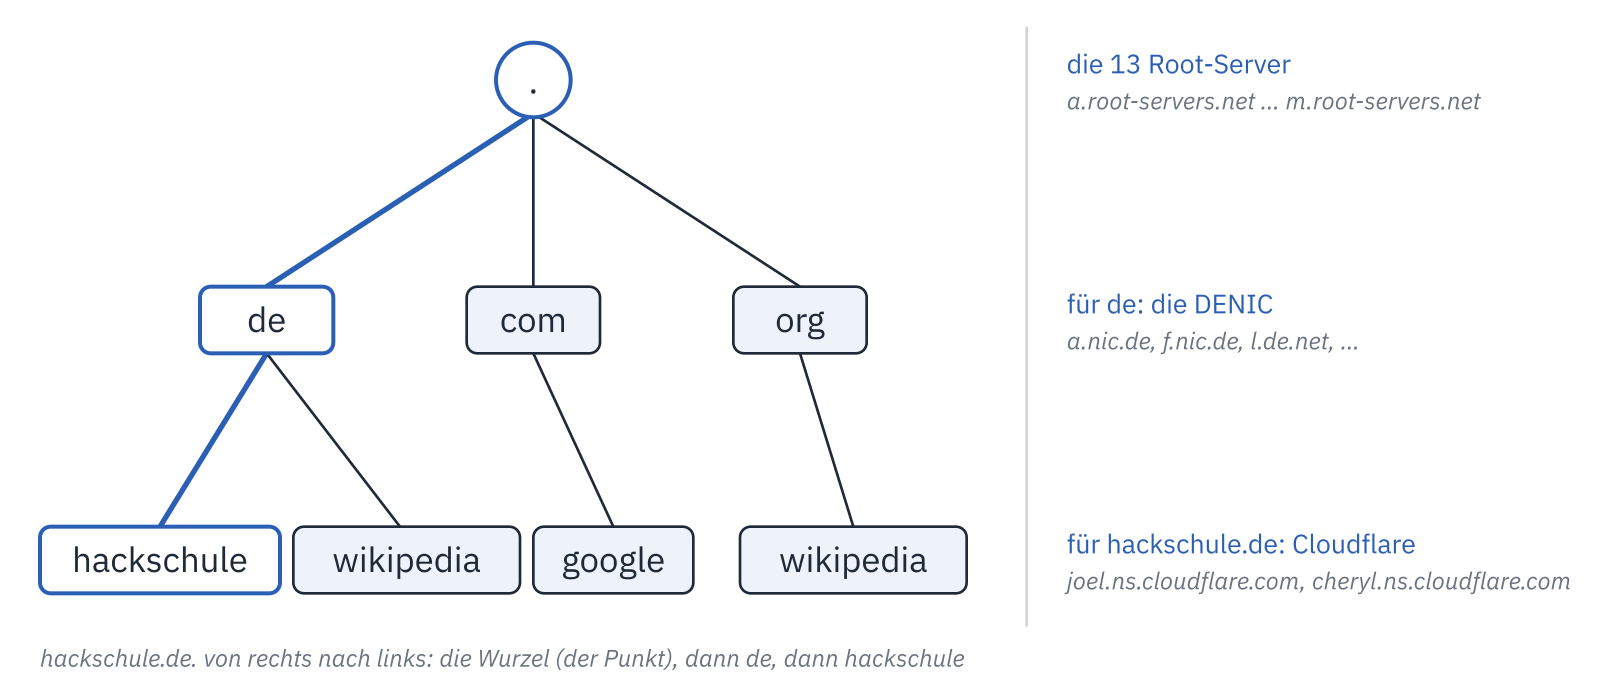
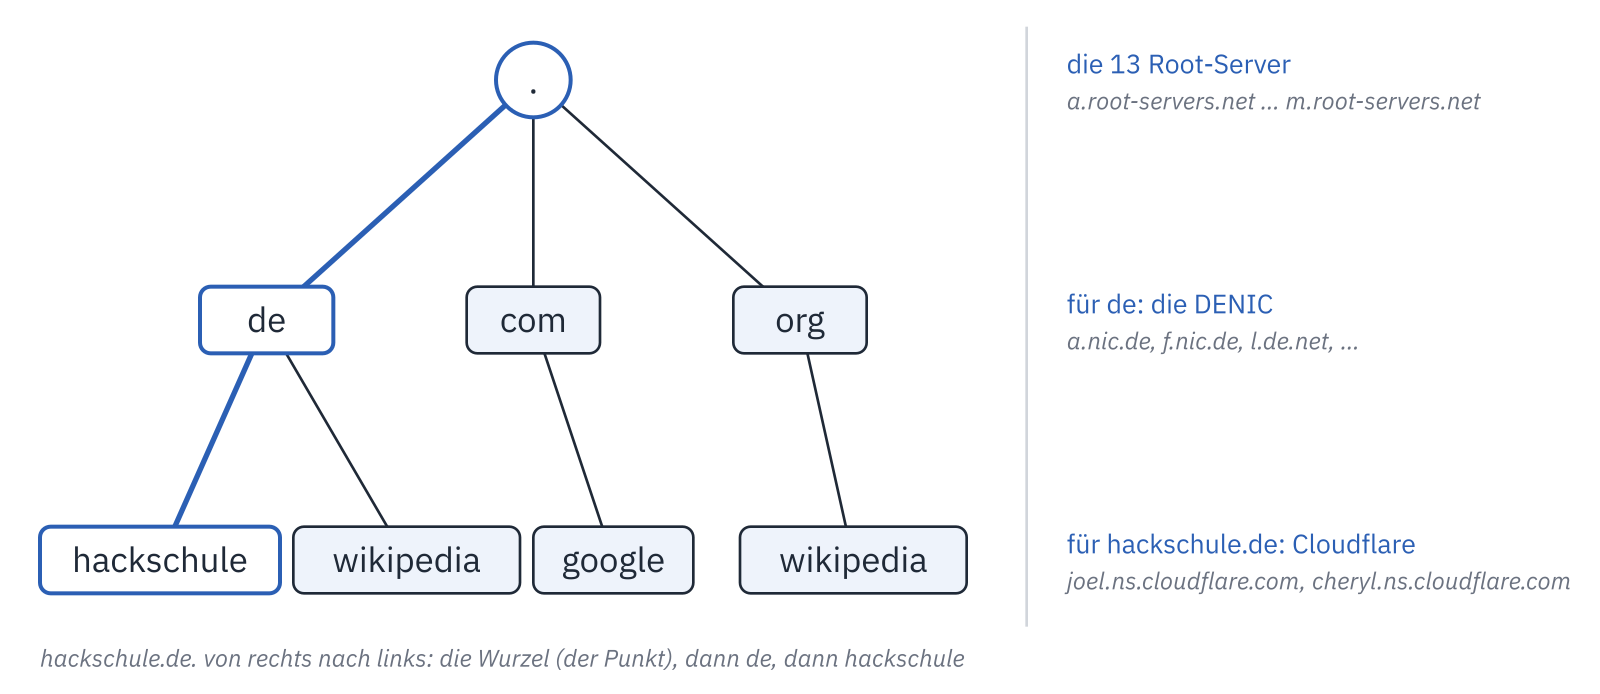
Diagrams: edges aim at node centres (DNS tree), arrowheads follow their curve with the tip on the border (B-tree); a rule for every diagram

diff --git a/docs/checkliste.md b/docs/checkliste.md
@@ -69,6 +69,7 @@ Repository arbeitet, liest sie also ohnehin.
 | Regel | Warum | Geprüft durch |
 | --- | --- | --- |
 | Jedes Bild hat einen `alt`-Text, der sagt, was zu sehen ist | Barrierefreiheit, und beim Lesen ohne Bild | `alt_text_test.rb` |
+| In Diagrammen zielt eine Kante auf die Mitten der Knoten, die sie verbindet; eine Pfeilspitze zeigt in Richtung ihrer Kante, die Spitze auf dem Rand des Knotens. Ein gebogener Pfeil kommt auf der Linie zur Mitte an (sein letzter Kontrollpunkt liegt darauf), und ein Pfeil beginnt an der Stelle im Knoten, zu der er gehört, nicht in einer Ecke | Kanten, die an einer Kante des Kastens enden oder schräg ankommen, sehen unordentlich aus | Lesen (`dns/dns-tree.svg`, `sql-index/b-tree.svg` als Beispiele) |
 | Bilder aus dem Workspace, aus einer Vorschau oder von einer Seite der Website kommen aus Rezepten, nie von Hand | Nach einem Update von VS Code, des Themes oder der Seite entstehen sie neu | Audit (Spalte »von Hand«), `recreate-screenshots.rb --status` |
 | Rezepte, deren Bild für die folgenden nichts ändert (eine Galerie von Beispielen, eine Vorschau nach der anderen), stehen jedes in einem `<!-- tutorial-scope -->` | Dann rendert eine Änderung an einem Bild nur dieses neu, nicht alle danach, Videos eingeschlossen | Lesen (`src/tutorial-screenshots/README.md`, »Scopes«) |
 | Vor einer Scope-Marke steht eine Leerzeile, wenn die Zeile davor ein Bild oder Text ist | Sonst gehört sie für Markdown zum Absatz davor und steht als Text auf der Seite | `scope_markers_test.rb` |

diff --git a/AGENTS.md b/AGENTS.md
@@ -47,6 +47,12 @@ address from `credentials.rb` and the code `123456`.
   before the `<img>`), never by hand. Render with
   `src/scripts/recreate-screenshots.rb PAGE`, check `--status`, and look at
   every new picture before committing it with its `.tutorial-screenshots.json`.
+- Diagrams: an edge aims at the centres of the nodes it joins (drawn from
+  centre to centre under the nodes, or ending on the border on that line), and
+  an arrowhead points along its edge, its tip on the node's border. A curved
+  arrow arrives on the line towards the centre: its last control point lies on
+  that line, so the head follows the curve (`dns/dns-tree.svg`,
+  `sql-index/b-tree.svg`).
 - Check marks are Bootstrap icons (`<i class='bi bi-check-lg'></i>`), never
   Unicode characters; `no_check_marks_test.rb` enforces this.
 - Code blocks name their language. A copy button (`_copy`) only for what is no

diff --git a/CHANGELOG.md b/CHANGELOG.md
@@ -759,6 +759,10 @@ Jeder Eintrag sagt, was sich für Lernende, Lehrkräfte und Betreibende ändert.
 
 ### Behoben
 
+- Diagramme: Im DNS-Baum zielen die Kanten auf die Mitten der Knoten, im
+  B-Baum von »SQL-Index« zeigen die Pfeilspitzen in Richtung ihrer Kurve, mit
+  der Spitze auf dem Rand. Beides gilt jetzt für alle Diagramme der Seite
+  (`docs/checkliste.md`).
 - DCT-Werkzeug (`/dct`) in 2D: Die mit ihren Koeffizienten gewichteten
   Kosinusmuster sind kräftig zu sehen. Bisher richtete sich ihre Helligkeit
   nach dem DC-Koeffizienten, dem Mittelwert des Blocks, der fast immer viel
